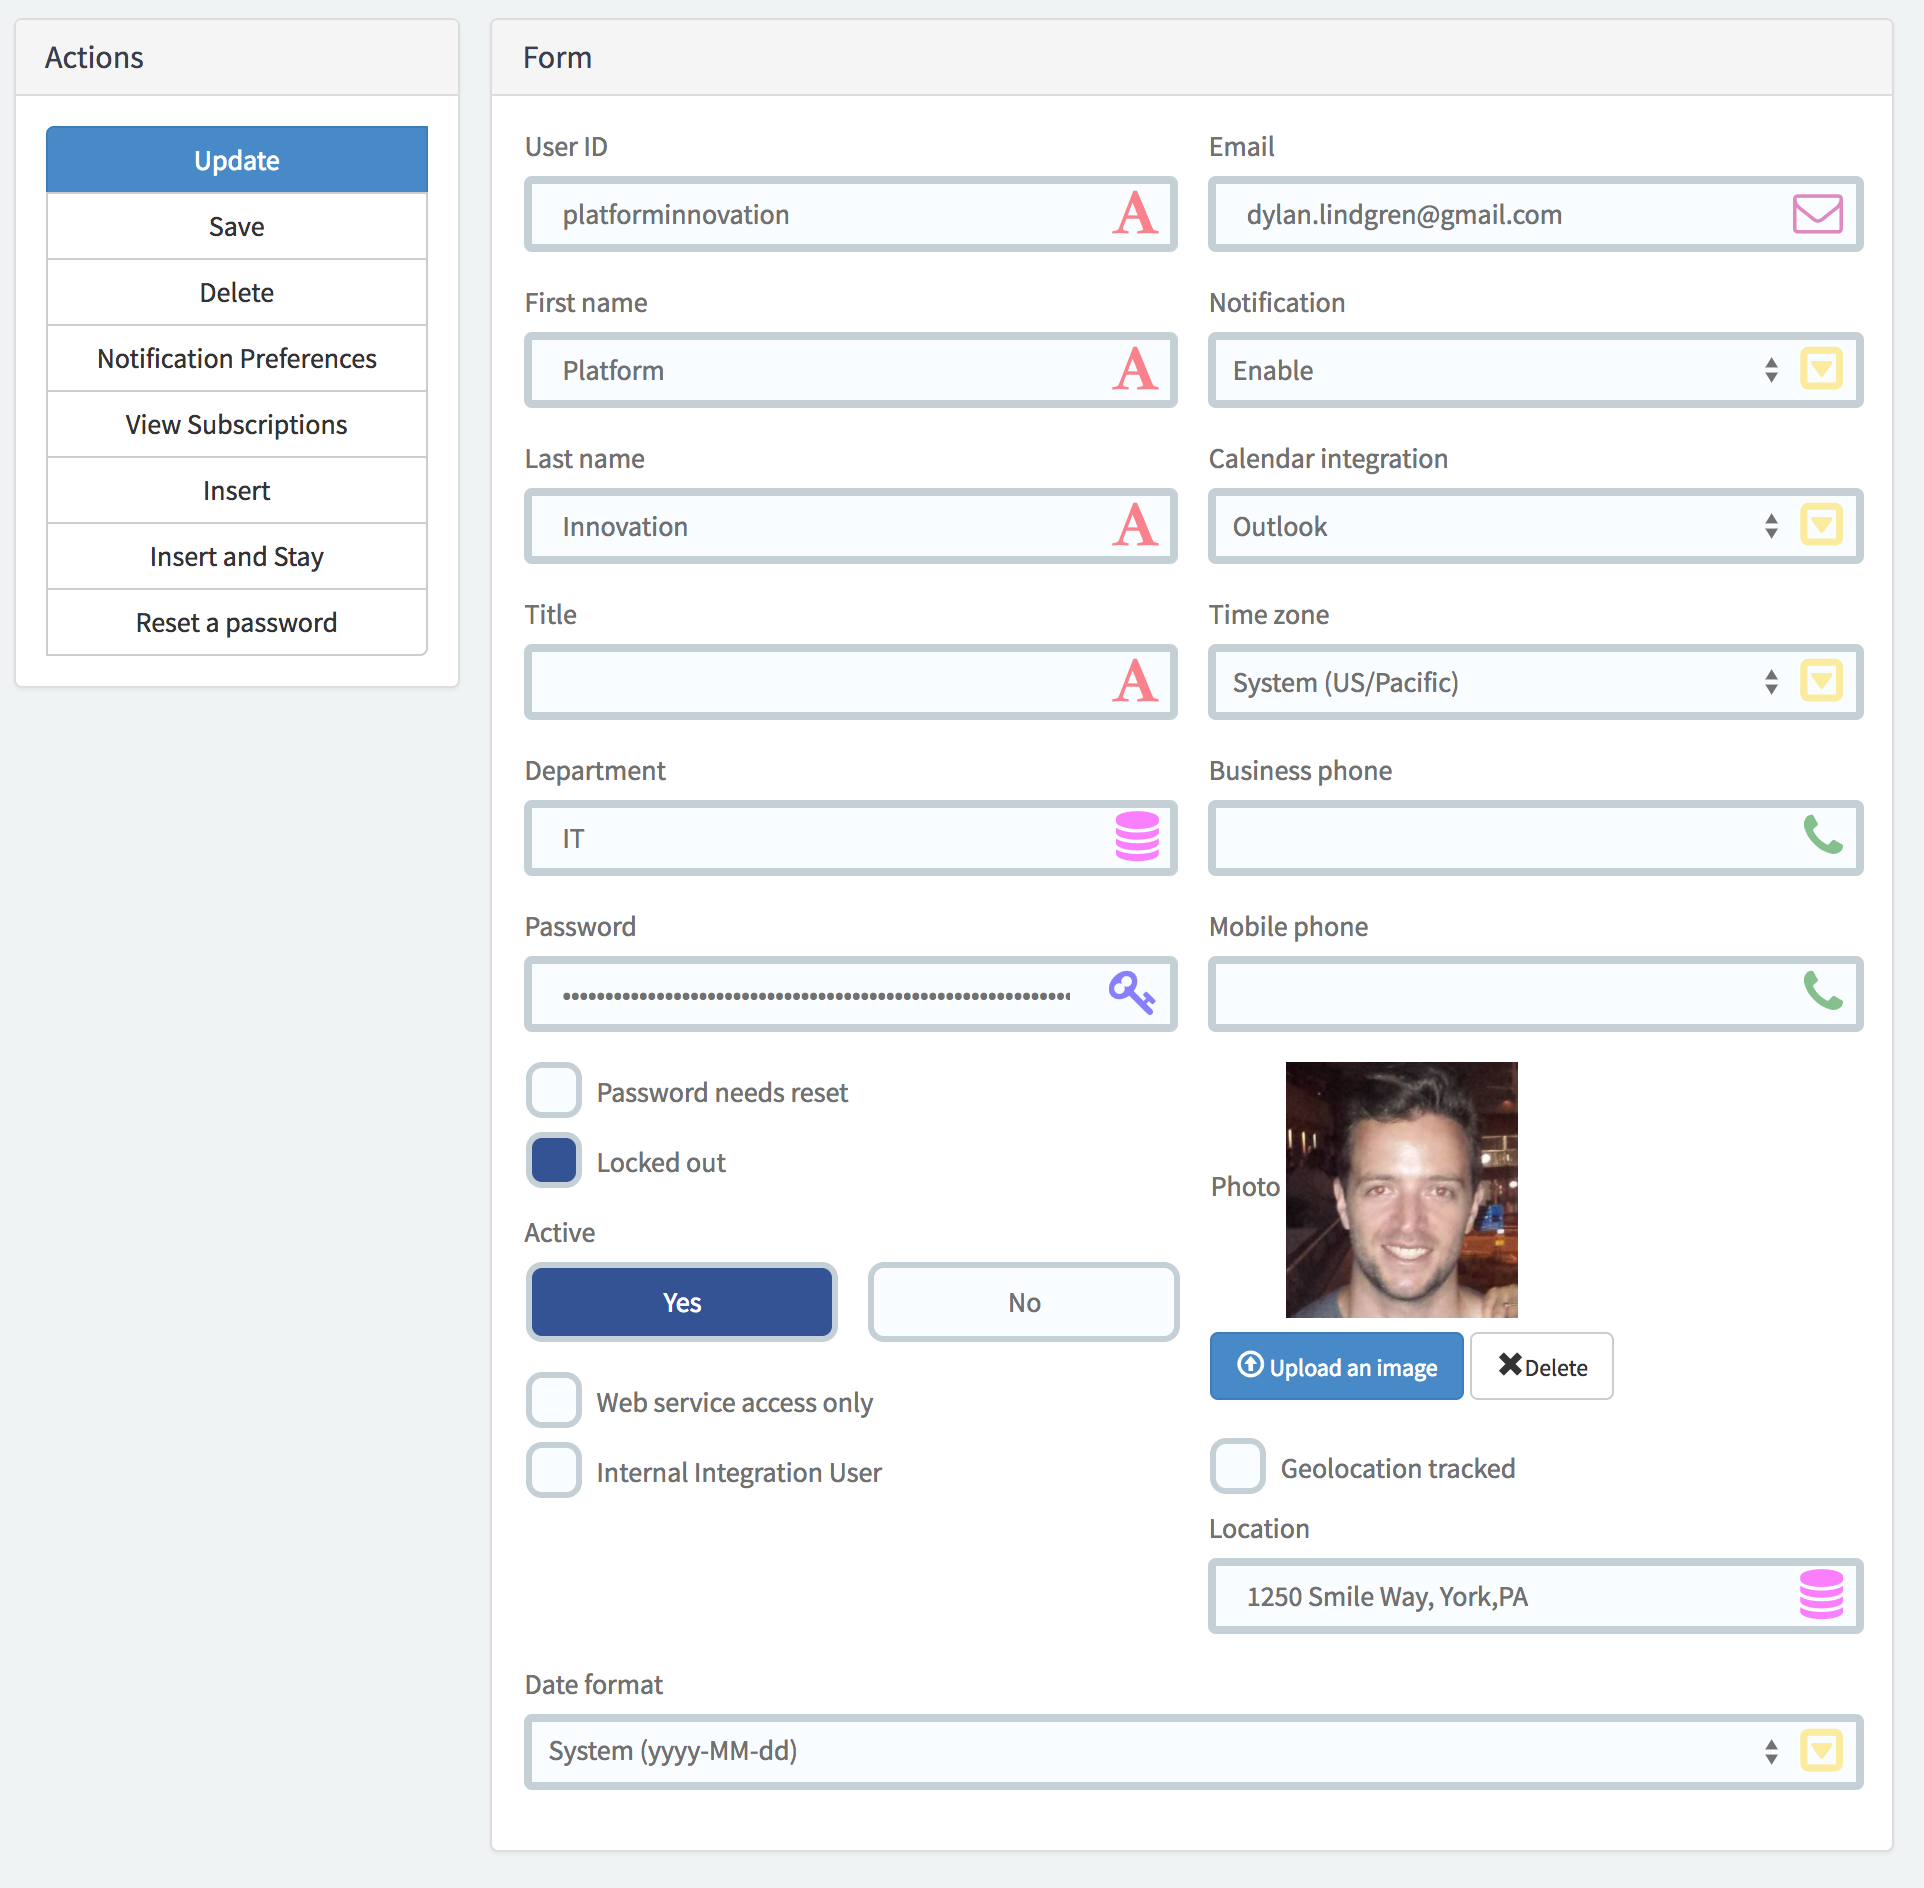
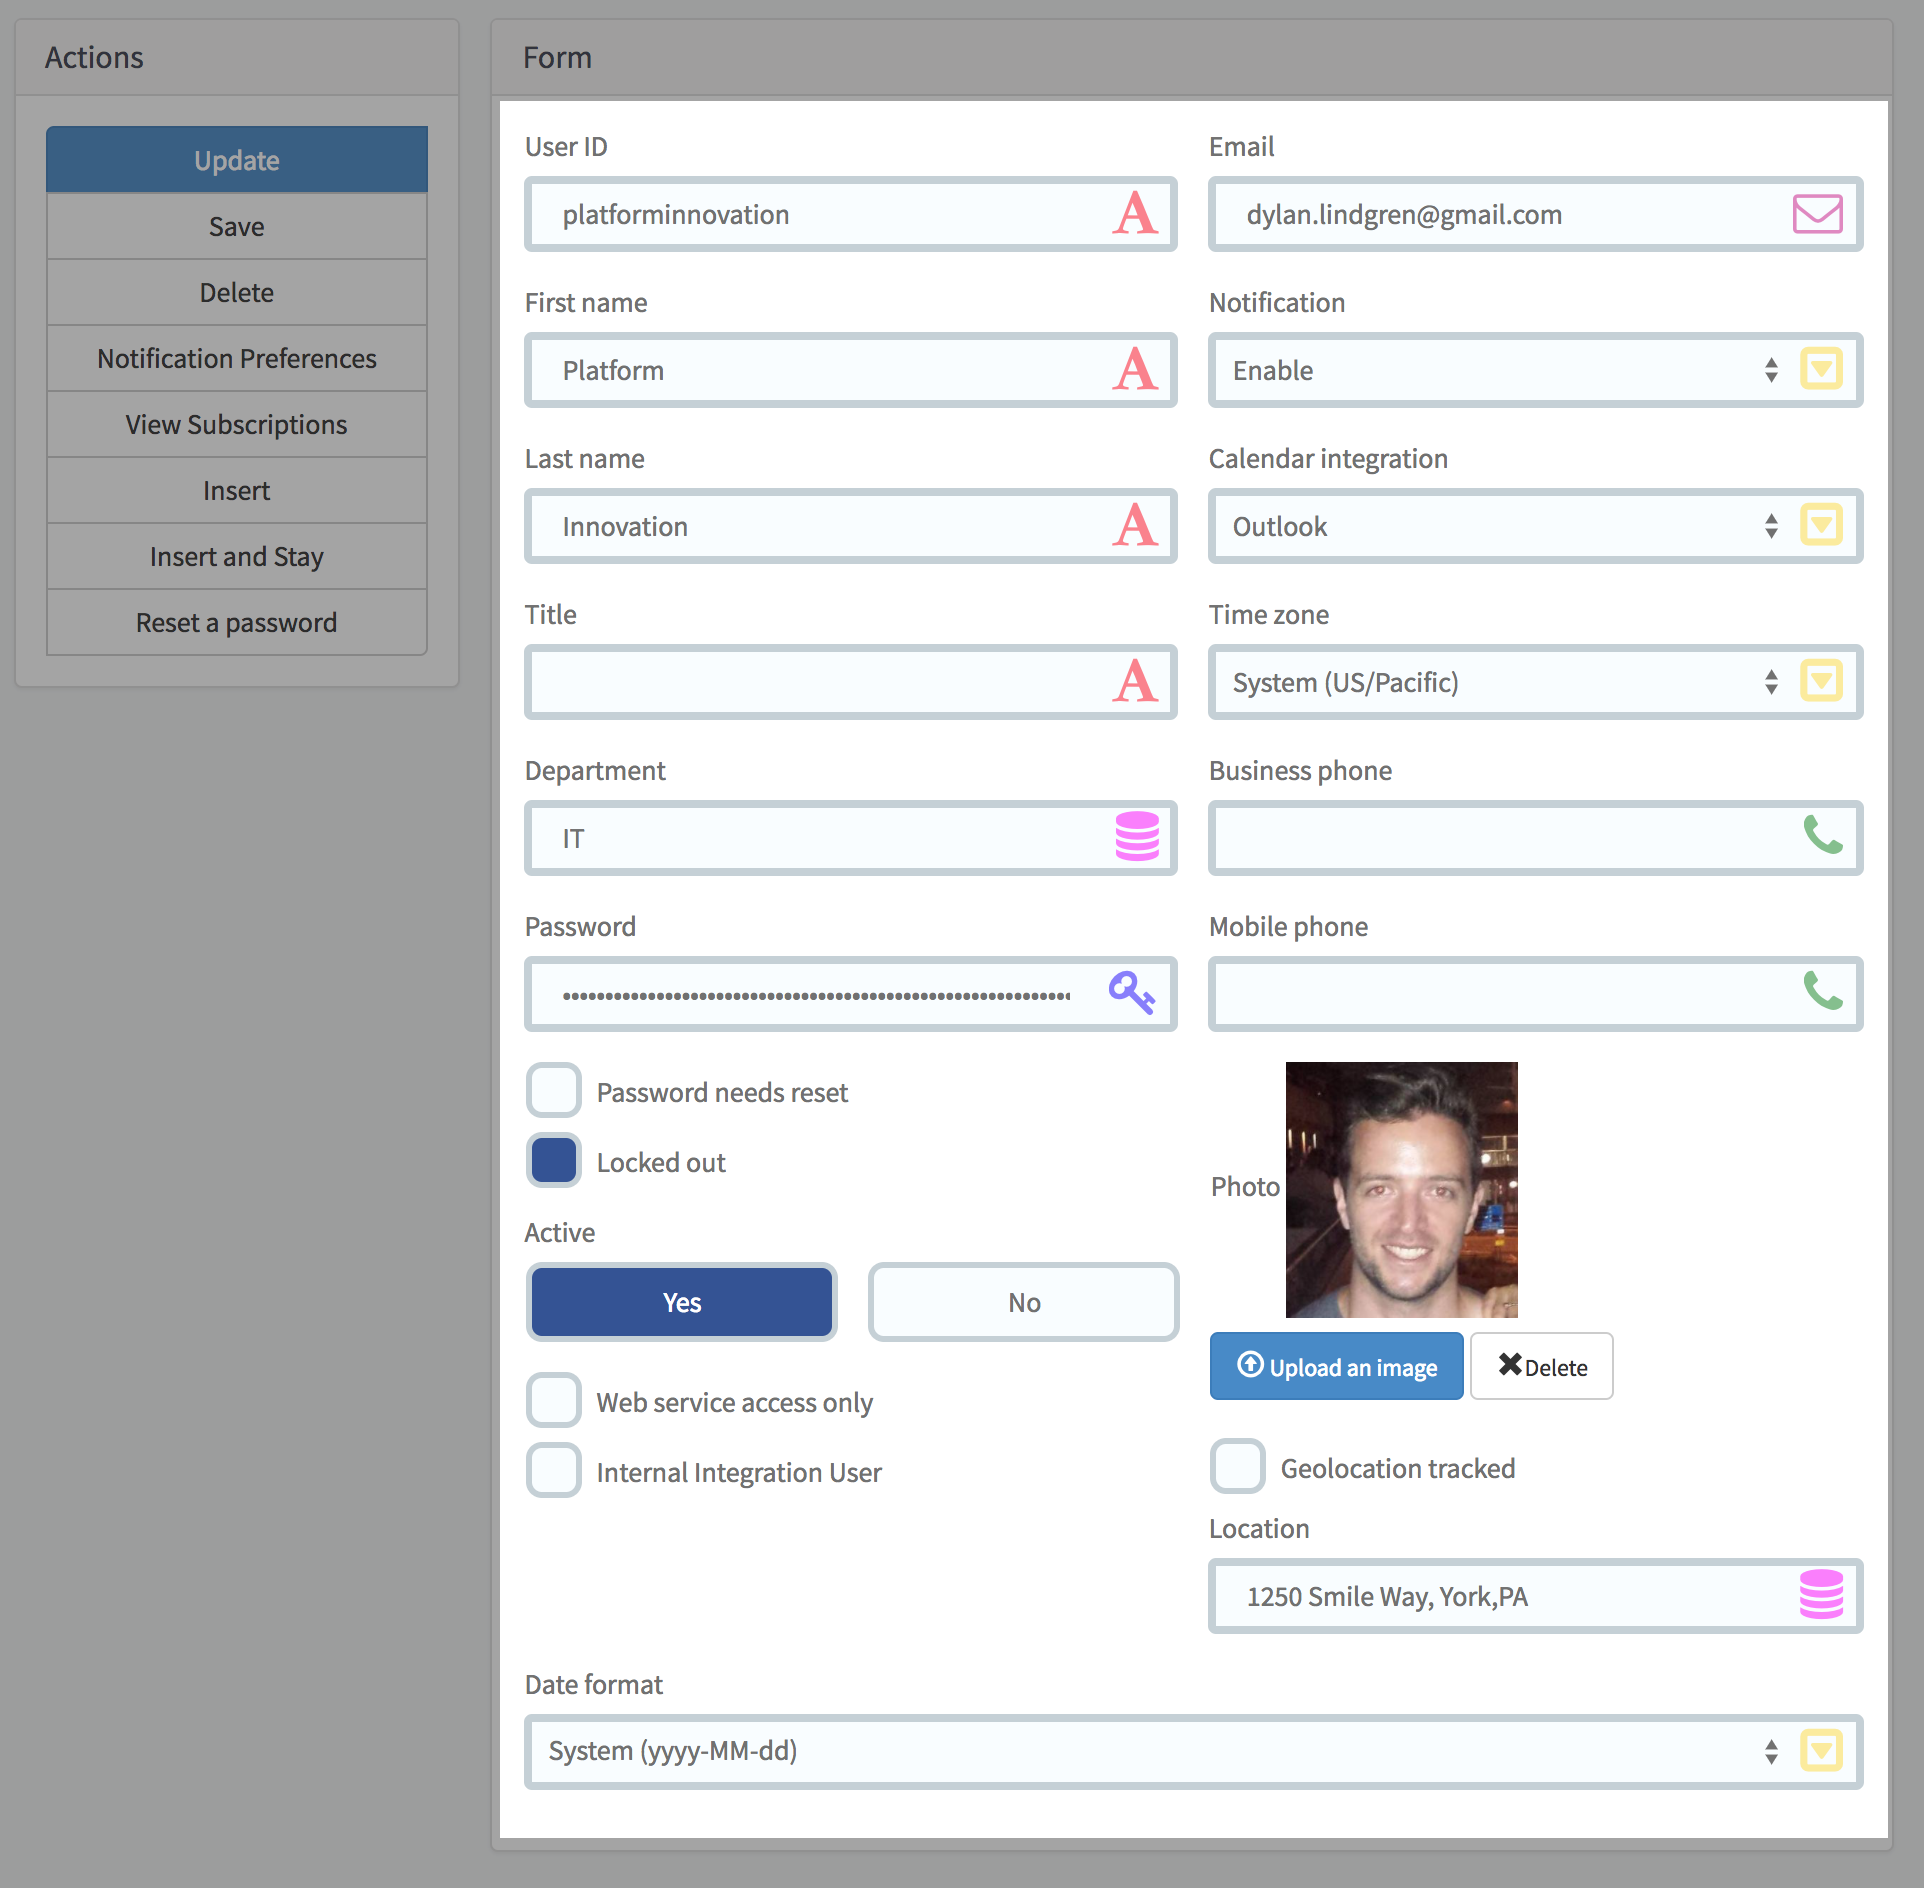
Updated README to reflect new changes to the app, and edited screenshot to highlight what’s actually part of the app.

diff --git a/README.md b/README.md
@@ -1,20 +1,26 @@
 # Form Decoration
 
-**NOTE: This application is currently under active development and is not intended for use at the present time.**
+This ServiceNow application offers added flexibility to the out-of-box form widget in Service Portal, all while retaining it's functionality including respect for form views, UI Policies, and Client Scripts.
 
-This application is designed to easily allow you to style, and add custom functionality to form fields, whilst retaining the power of the out-of-box form widget.
+Some feature highlights of the app:
+
+- Ability to create your own new field types (e.g. "Address lookup").
+	- Apply them to all fields of a certain type, or specific fields on a specific table.
+	- Apply to all portals, or a specific portal.
+- Put UI Actions anywhere on the page, in any widget, and style them in any way you want.
+- Only UI actions, fields, and associated elements are contained in the widget. There's no background colour, or surrounding "frame".
+
+The goal for this application is to be as unopinionated as possible, and allow **you** to control how your form displays.
 
 ![Decorated Form](decorated-form-screenshot.png)
 
-**NOTE:** this repository contains documentation only. The repo containing the applicaton can be found at [platform-experience/form-decoration-app](https://github.com/platform-experience/form-decoration-app).
-
 ## Why?
 
-The out-of-box form widget in Service Portal is extremely powerful, in that it leverages base-platform functionality so that forms can be designed by configuration rather than code. Some examples of this functionality are form views, UI Policies, and Client Scripts.
+The out-of-box form widget in Service Portal is extremely powerful, in that it leverages base-platform functionality so that forms can be designed by configuration rather than code.
 
-While it's very powerful, it has it's limitations as well. Specifically, there is no out-of-box way to style elements, or to add special functionality (e.g. Google address lookup) to fields/variables on the form. This means that while a portal can look good, it's appearance is often brought down by the inclusion of the form widget on the page which doesn't conform to the styling of the portal.
+While it's very powerful, it has it's limitations as well. Specifically, there is no out-of-box way to style elements, or to add special functionality to fields on the form. This means that while a portal can look good, it's appearance is often brought down by the inclusion of the form widget on the page which doesn't conform to the styling of the portal.
 
-Prior to this application, the only way to create your own custom field types and styling was to create your own form within a widget, sacrificing all the base-platform functionality.
+Prior to this application, the only way to create your own custom field types and styling was to create your own form from scratch, sacrificing all the base-platform functionality. This app offers a middle-ground.
 
 ## Installation
 
@@ -23,26 +29,44 @@ To use this application, simply navigate to `System Applications` > `Studio` on 
 ```
 https://github.com/platform-experience/form-decoration-app.git
 ```
-**NOTE:** Executing **Apply Remote Changes** from the **Source Control** menu of ServiceNow Studio will uninstall and reinstall the application, dropping all the tables and thus wiping your configuration data, thus it is suggested not to do this. It is aimed for this application to be published to the ServiceNow Store eventually, which will allow you to receive updates to the app without wiping your data.
+**NOTE:** Executing **Apply Remote Changes** from the **Source Control** menu of ServiceNow Studio will uninstall and reinstall the application, dropping all the tables and thus wiping your configuration data, thus it is suggested not to do this. It is aimed for this application to be published to a ServiceNow repo/the store eventually, which will allow you to receive updates to the app without wiping your data.
 ## Getting Started
-There is a single widget included in this application called **Decorated Form** (`pe-decorated-form`). This widget must be used for the form decoration functionality to work. For instructions on how to add it to a Service Portal page, refer to the [ServiceNow Documentation website](https://docs.servicenow.com/bundle/helsinki-servicenow-platform/page/build/service-portal/task/t_AddWidgetsToAPage.html).
+There are two widgets included in this application, with the primary one being **Form (Decorated)** (`pi-decorated-form`). This widget must be used for the form decoration functionality to work. For instructions on how to add it to a Service Portal page, refer to the [ServiceNow Documentation website](https://docs.servicenow.com/bundle/helsinki-servicenow-platform/page/build/service-portal/task/t_AddWidgetsToAPage.html).
 
-This widget works similar to the out-of-box form widget, and can be controlled with the following options/parameters:
+The application also comes with a Service Portal Page called `df_test` with the widget already on it. If you open the below URL on your instance you can see it in action.
+
+```
+/sp?id=df_test&table=sys_user
+```
+
+There is another widget called **Form (Decorated) Actions Example** (`pi-df-actions`) which shows an example of how one would use the API to move the UI actions off the form and into another completely different part of the page.
+
+## Understanding
+
+The app works by leveraging the  `template-url` attribute on the out-of-box `spModel` directive. `spModel` is the core directive from which the out-of-box form widget gets it's functionality.
+
+Instead of offering only a finite set of field types (around 20), the template that this app includes offers unlimited types as it's controlled by what is contained in the tables of the application:
+
+- Directive (`x_snc_formdec_directive`) - kind of like a "mini-widget". This is where you create your new field types.
+- Decorator (`x_snc_formdec_decorator`) - This is where you set the criteria for when a Directive will be used for a particular form field.
+
+Note that if there is no Decorator defined for a certain field, the out-of-box way of displaying the field will be used.
+
+
+## Widget Options
+
+The **Form (Decorated)** widget can be controlled with the following options/parameters:
 
 | Option (Label)  | Option (Name)  | URL Parameter | Description | Mandatory | Default |
 | ------------- | ------------- | ------------- | ------------- | ------------- | ------------- |
 | Table  | `table` | `table` | The table to show | Yes |
 | Sys ID  | `sys_id` | `sys_id` | The Sys ID of the record in the table  | No | `-1` |
 | View  | `view` | `view` | The view to use | No | `service_portal` |
-| Show only primary action  | `primary_only` |  | Whether to only show the primary UI action | No | `false` |
+| Show only primary UI action  | `primary_only` |  | Whether to only show the primary UI action | No | `false` |
+| Show section headings  | `show_headings` |  | Whether to show section headings | No | `true` |
+| Show UI actions  | `show_actions` |  | Whether to only show UI actions at all | No | `true` |
 
-In cases above where a URL parameter can be supplied, supplying an option will override a URL parameter if supplied.
-
-The application comes with a Service Portal Page called `df_test` with the widget already on it. If you open the below URL on your instance you can see it in action.
-
-```
-/sp?id=df_test&table=incident
-```
+If both and option and URL parameter are are supplied, the option will be used.
 
 ## Creating a custom field type
 To create your own field type, simply create a new record in the **Directive** table (`x_snc_formDec_directive`).
@@ -65,26 +89,22 @@ To create your own field type, simply create a new record in the **Directive** t
 When creating your directive, you need to ensure it interacts with the form correctly so that when the form is submitted, the correct value gets sent to the server.
 
 - The value of your field should in most cases be bound to the `field.stagedValue` scope variable.
-- - When the user focuses on the field, you should emit the Angular event `sp.spFormField.focus`.
+- When the user focuses on the field, you should emit the Angular event `sp.spFormField.focus`.
 - When the user is no longer interacting with the field, you should emit the Angular event `sp.spFormField.blur` and pass the stagedValue into the FieldValue scope function (e.g. `$scope.fieldValue($scope.field.stagedValue);`
 
 **NOTE:**  be careful when using [one-time bindings](https://toddmotto.com/angular-one-time-binding-syntax/), as if the field/form changes as a result of UI Policy/Client Script you want these updates to reflect on your field.
 
-## Associating a field type with a field/variable
-You must define a relationship between the directive you created and the form field/variable. Doing this will mean that when the field/variable is shown on the form, the directive will be used to display it instead of the out-of-box way of representing it.
-
-If a field does not have this association, the out-of-box method of representing the field will be used.
-
-You can define the relationship using the **Decorators** table (`x_snc_formdec_decorator`).
+## Defining when the new field type will be used
+You must define a directive record which controlls when the field type will be used. You can do this within the  **Decorators** table (`x_snc_formdec_decorator`).
 
 | Field  | Description |
 | ------------- | ------------- |
 | Directive  | A reference to the directive record created in step 2. |
 | Portal  | The portal where this relationship should apply. |
+| Applies to  | Whether the decorator applies to a field type, or a specific field. |
+| Field Type | The field for which the directive should be used. |
 | Field  | The field for which the directive should be used. |
-| Variable  | The variable for which the directive should be used. |
 
-You can link a single **Decorator** record to both a field AND variable if desired.
 ## Security
 The application has 4 roles which can be granted to users to allow them to configure the application.
 
@@ -102,9 +122,19 @@ No roles are required to be able to view the form widget or the custom fields.
 - [Styling](styling.md)
 
 ## Example Directives
-Below you can see some examples from the fields that come with the application if you install demo data.
+The application comes with 9 Directive records in it's demo data which you can use as inspiration for your own custom fields:
 
 - [fdExampleStringField](examples/fdExampleStringField.md)
+- fdExampleCheckboxField
+- fdExampleChoiceField
+- fdExampleEmailField
+- fdExamplePasswordField
+- fdExamplePhoneField
+- fdExamplePhotoField
+- fdExampleRefField
+- fdExampleYesNoField
+
+There are also 9 Decorator records which will ensure that these field types are used for the `sys_user` table.
 
 ## Get assistance
 
